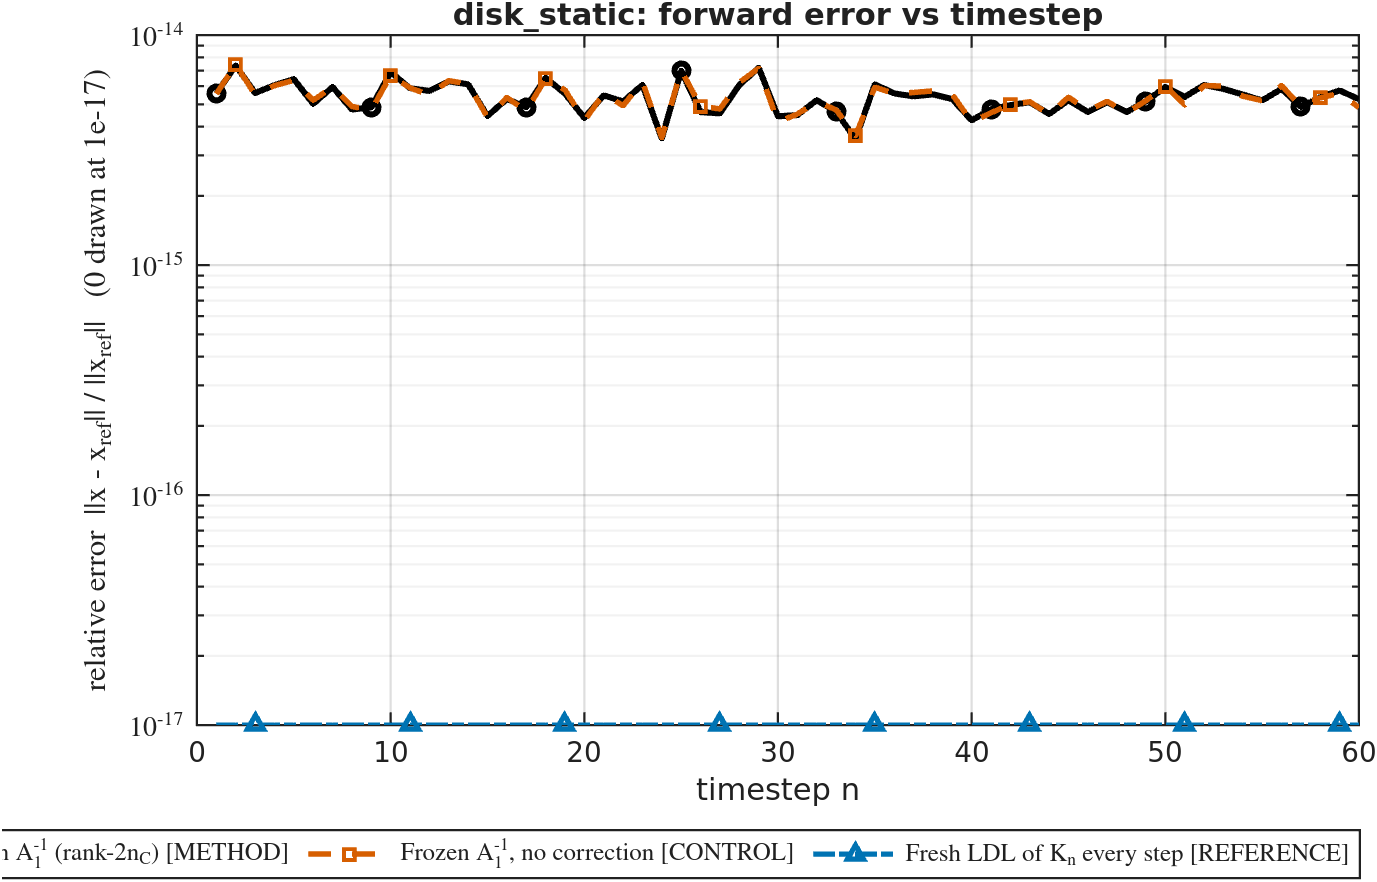
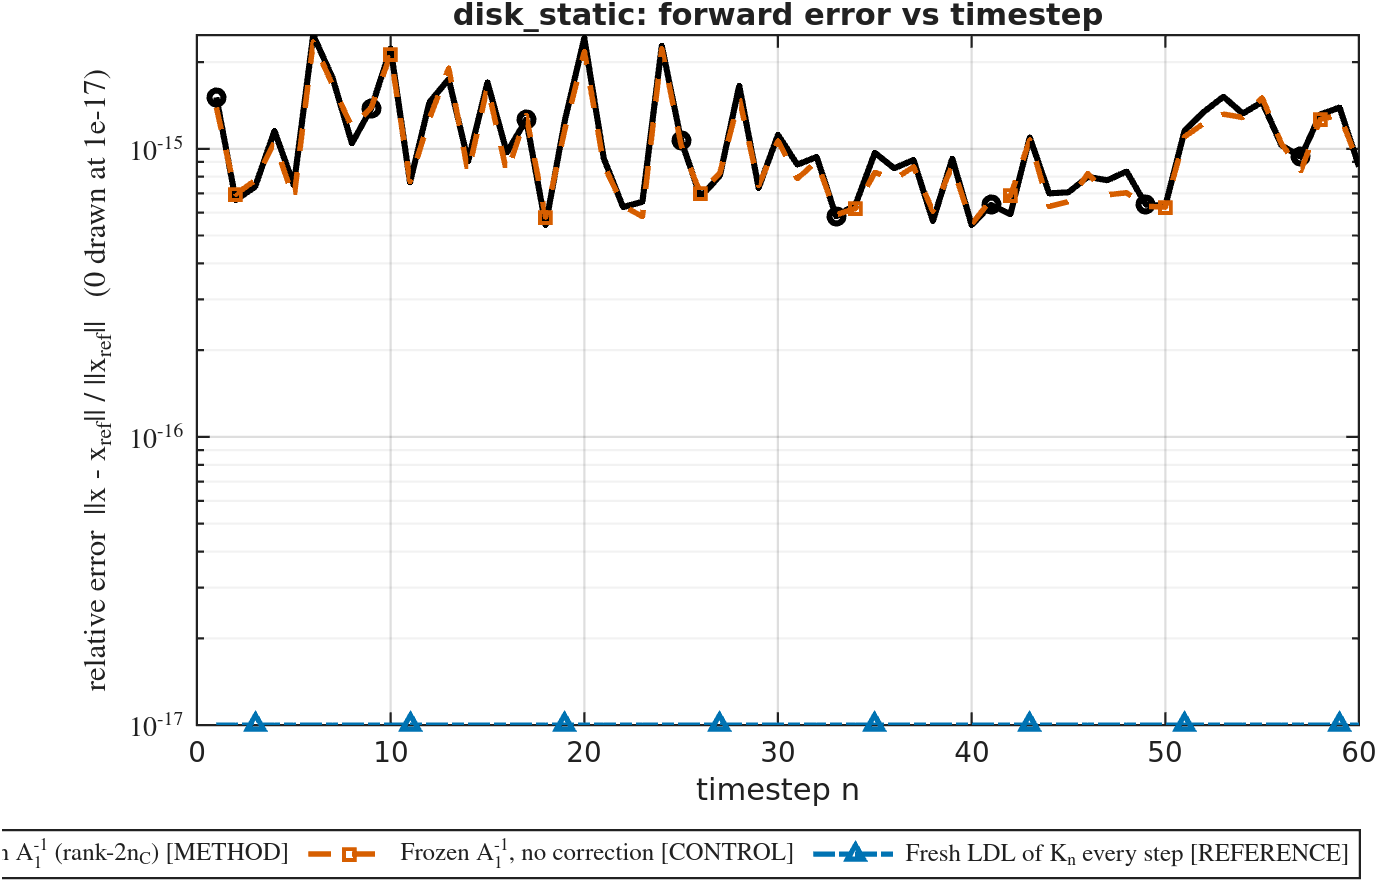
update

diff --git a/symindefinite/stokes_immersed_rotor_woodbury/make_woodbury_params.m b/symindefinite/stokes_immersed_rotor_woodbury/make_woodbury_params.m
@@ -16,7 +16,7 @@ function params = make_woodbury_params()
     params = struct();
 
     % --- Discretization (identical to the parent KKT benchmark) -------------
-    params.h0    = 0.05;
+    params.h0    = 0.03;
     params.dt    = 0.02;
     params.Tstep = 61;                  % => 60 solves; also sets Tmax = dt*Tstep
 
